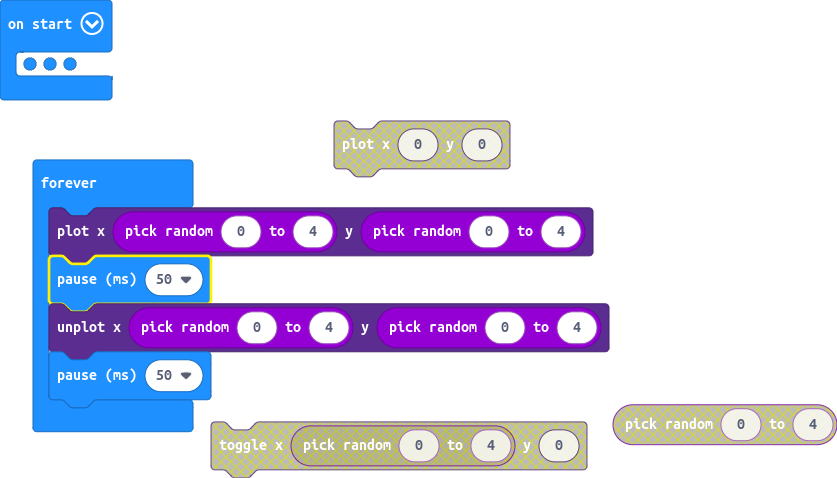
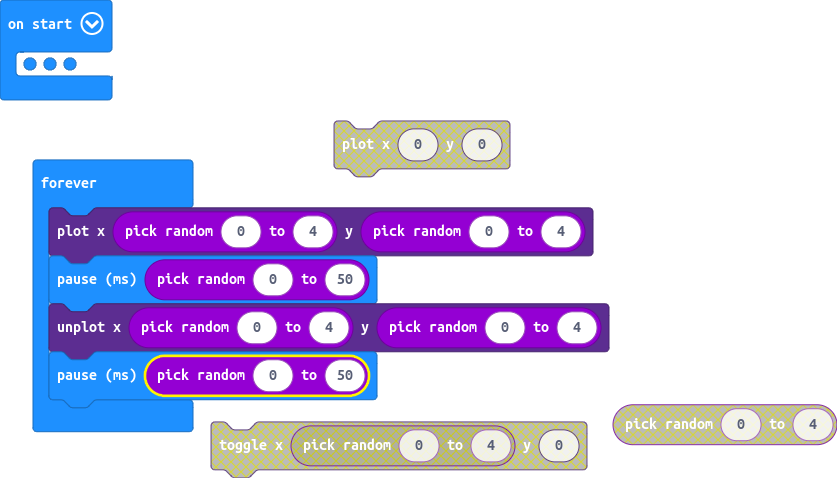
twin pause random

Changed region(s): [[0.0311, 0.5272, 0.4659, 0.6444], [0.1553, 0.7322, 0.4659, 0.8494]]

diff --git a/main.ts b/main.ts
@@ -9,7 +9,7 @@ basic.showLeds(`
 basic.pause(100)
 basic.forever(function () {
     led.plot(randint(0, 4), randint(0, 4))
-    basic.pause(50)
+    basic.pause(randint(0, 50))
     led.unplot(randint(0, 4), randint(0, 4))
-    basic.pause(50)
+    basic.pause(randint(0, 50))
 })
